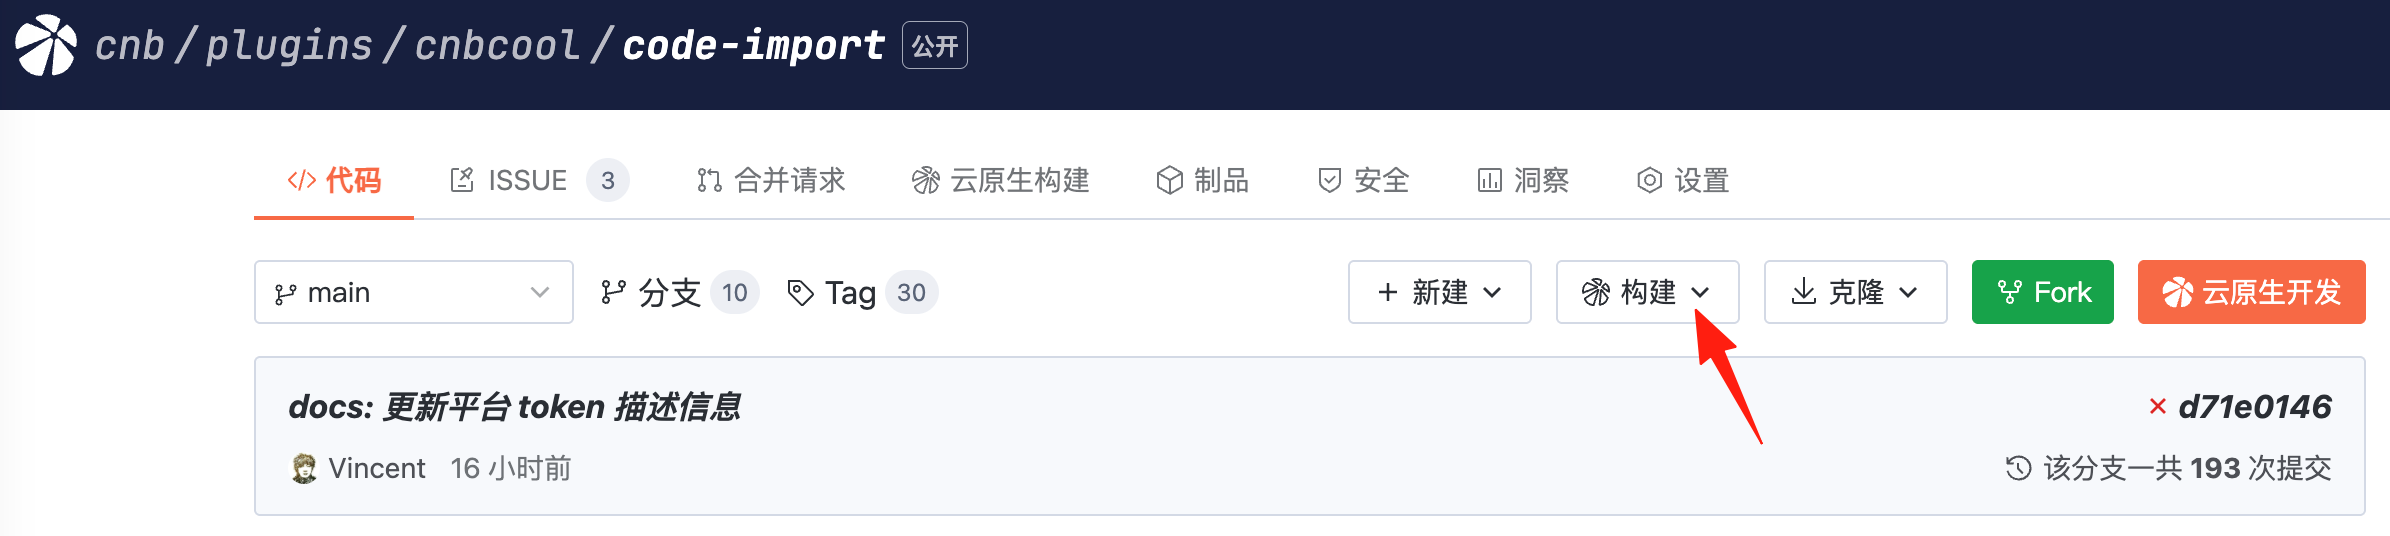
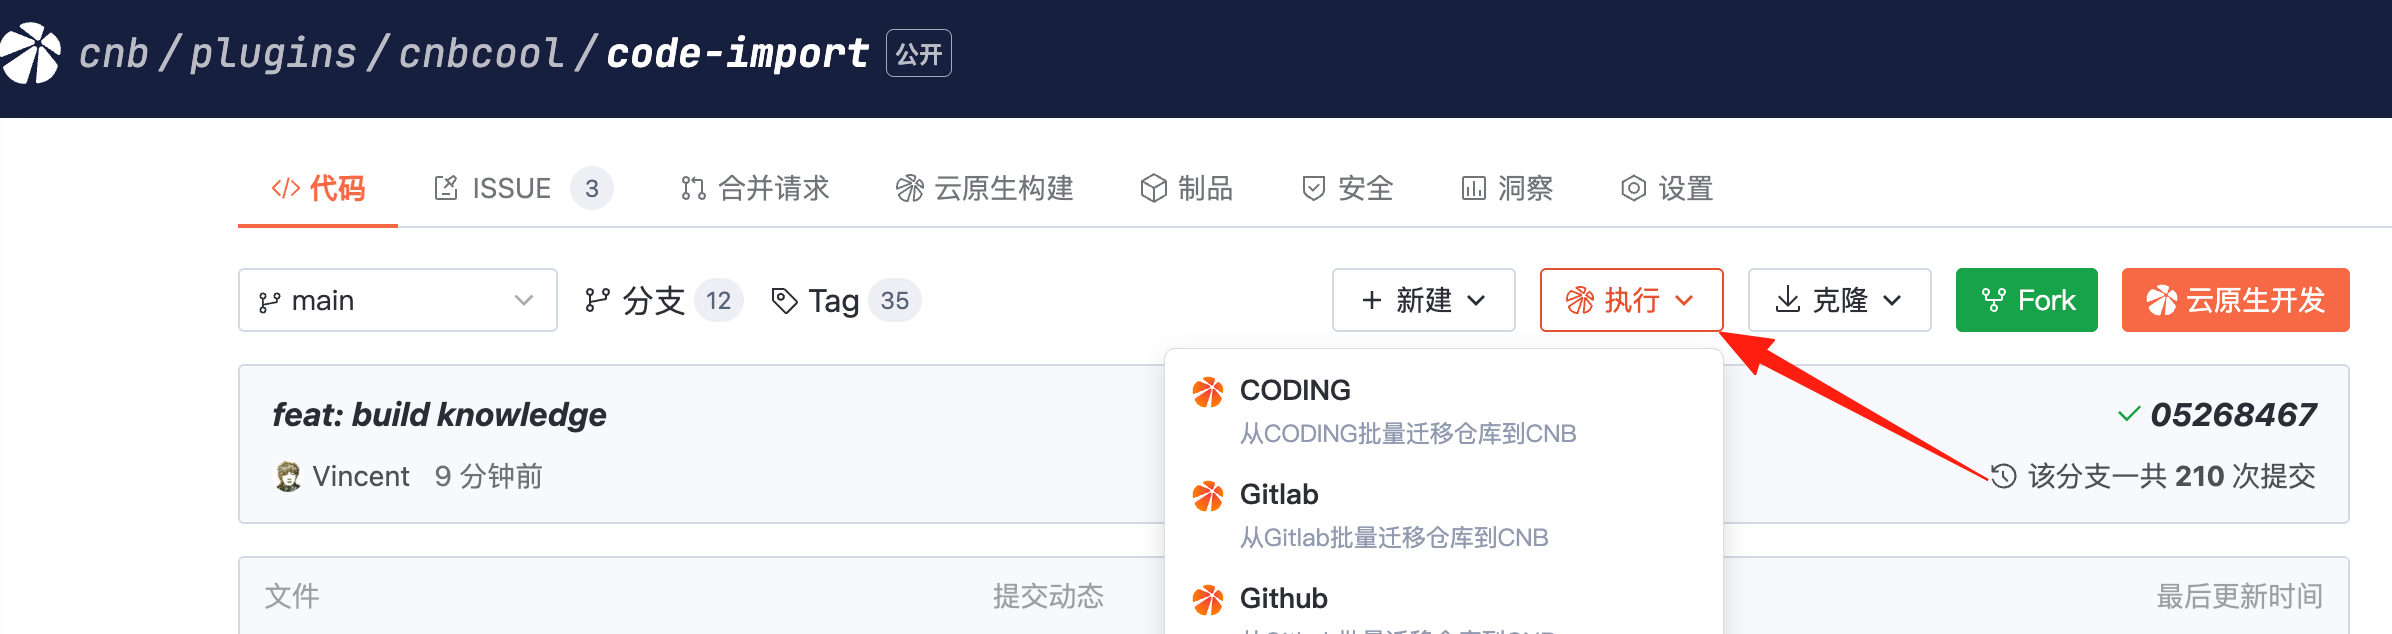
docs: 更新按钮及文件包含规则描述

diff --git a/README.md b/README.md
@@ -32,7 +32,7 @@
 ### 使用方法
 1. Fork本仓库到你的组织下
 ![img.png](img/img_7.png)
-2. 点击仓库上方构建按钮，选择对应源平台，根据提示填写相应配置参数。
+2. 点击仓库上方执行按钮，选择对应源平台，根据提示填写相应配置参数。
 ![img.png](img/img.png)
 3. 点击左下方橙色按钮，启动自定义事件，开始运行迁移任务
 4. 点击弹窗中的超链接，查看任务运行日志
